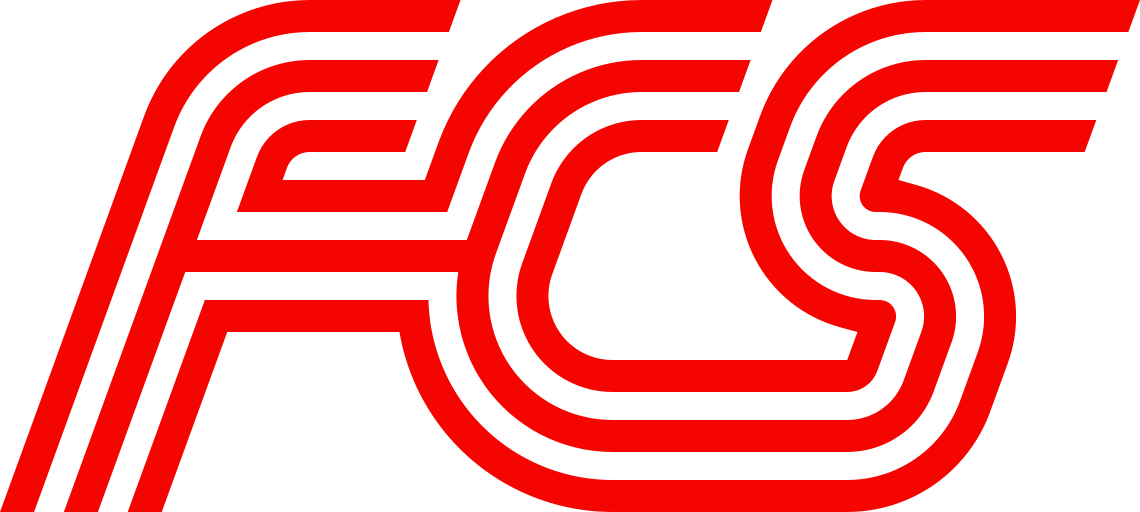
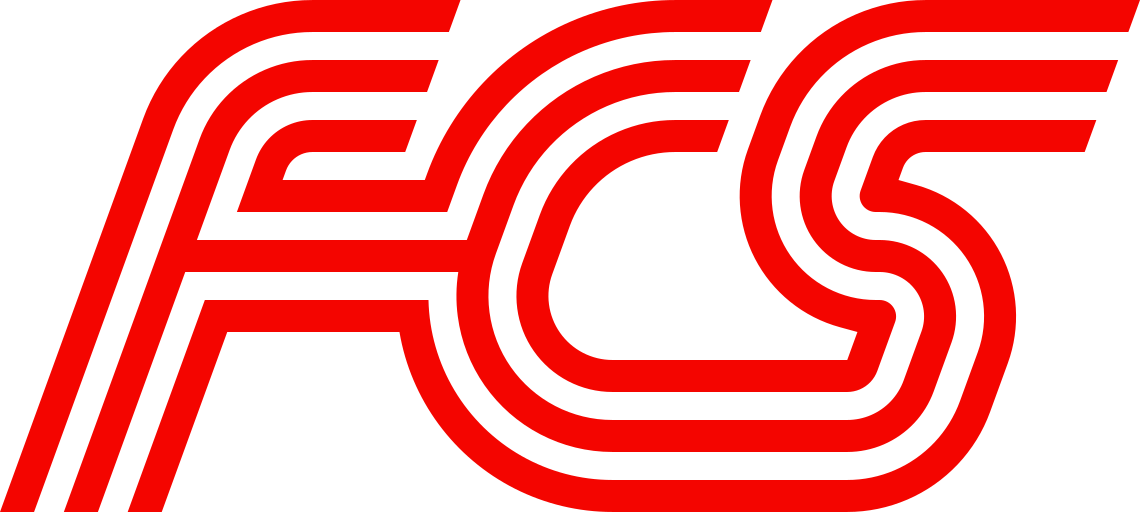
v7

Changed region(s): [[0.3684, 0.0, 0.5833, 0.4062], [0.5526, 0.1562, 0.5833, 0.1875], [0.2149, 0.125, 0.2456, 0.1562]]

diff --git a/fcs/logo.py b/fcs/logo.py
@@ -32,8 +32,8 @@ class Params:
     col_s_bottom: float = 248.0  # S lower-right, inner stripe
     # innermost corner radii of each concentric corner group (centerline)
     # (all corners around the F crossbar are hard, mitred corners)
-    f_top: float = 10.0  # F top-left (H stripe; B, A are +1, +2 pitch)
-    c_top: float = 20.0  # C top-left
+    f_top: float = 11.0  # F top-left (H stripe; B, A are +1, +2 pitch)
+    c_top: float = 32.0  # C top-left
     c_bowl: float = 20.0  # C bottom-left
     s_foot: float = 4.0  # S bottom-right
     s_top: float = 10.0  # S top-left
